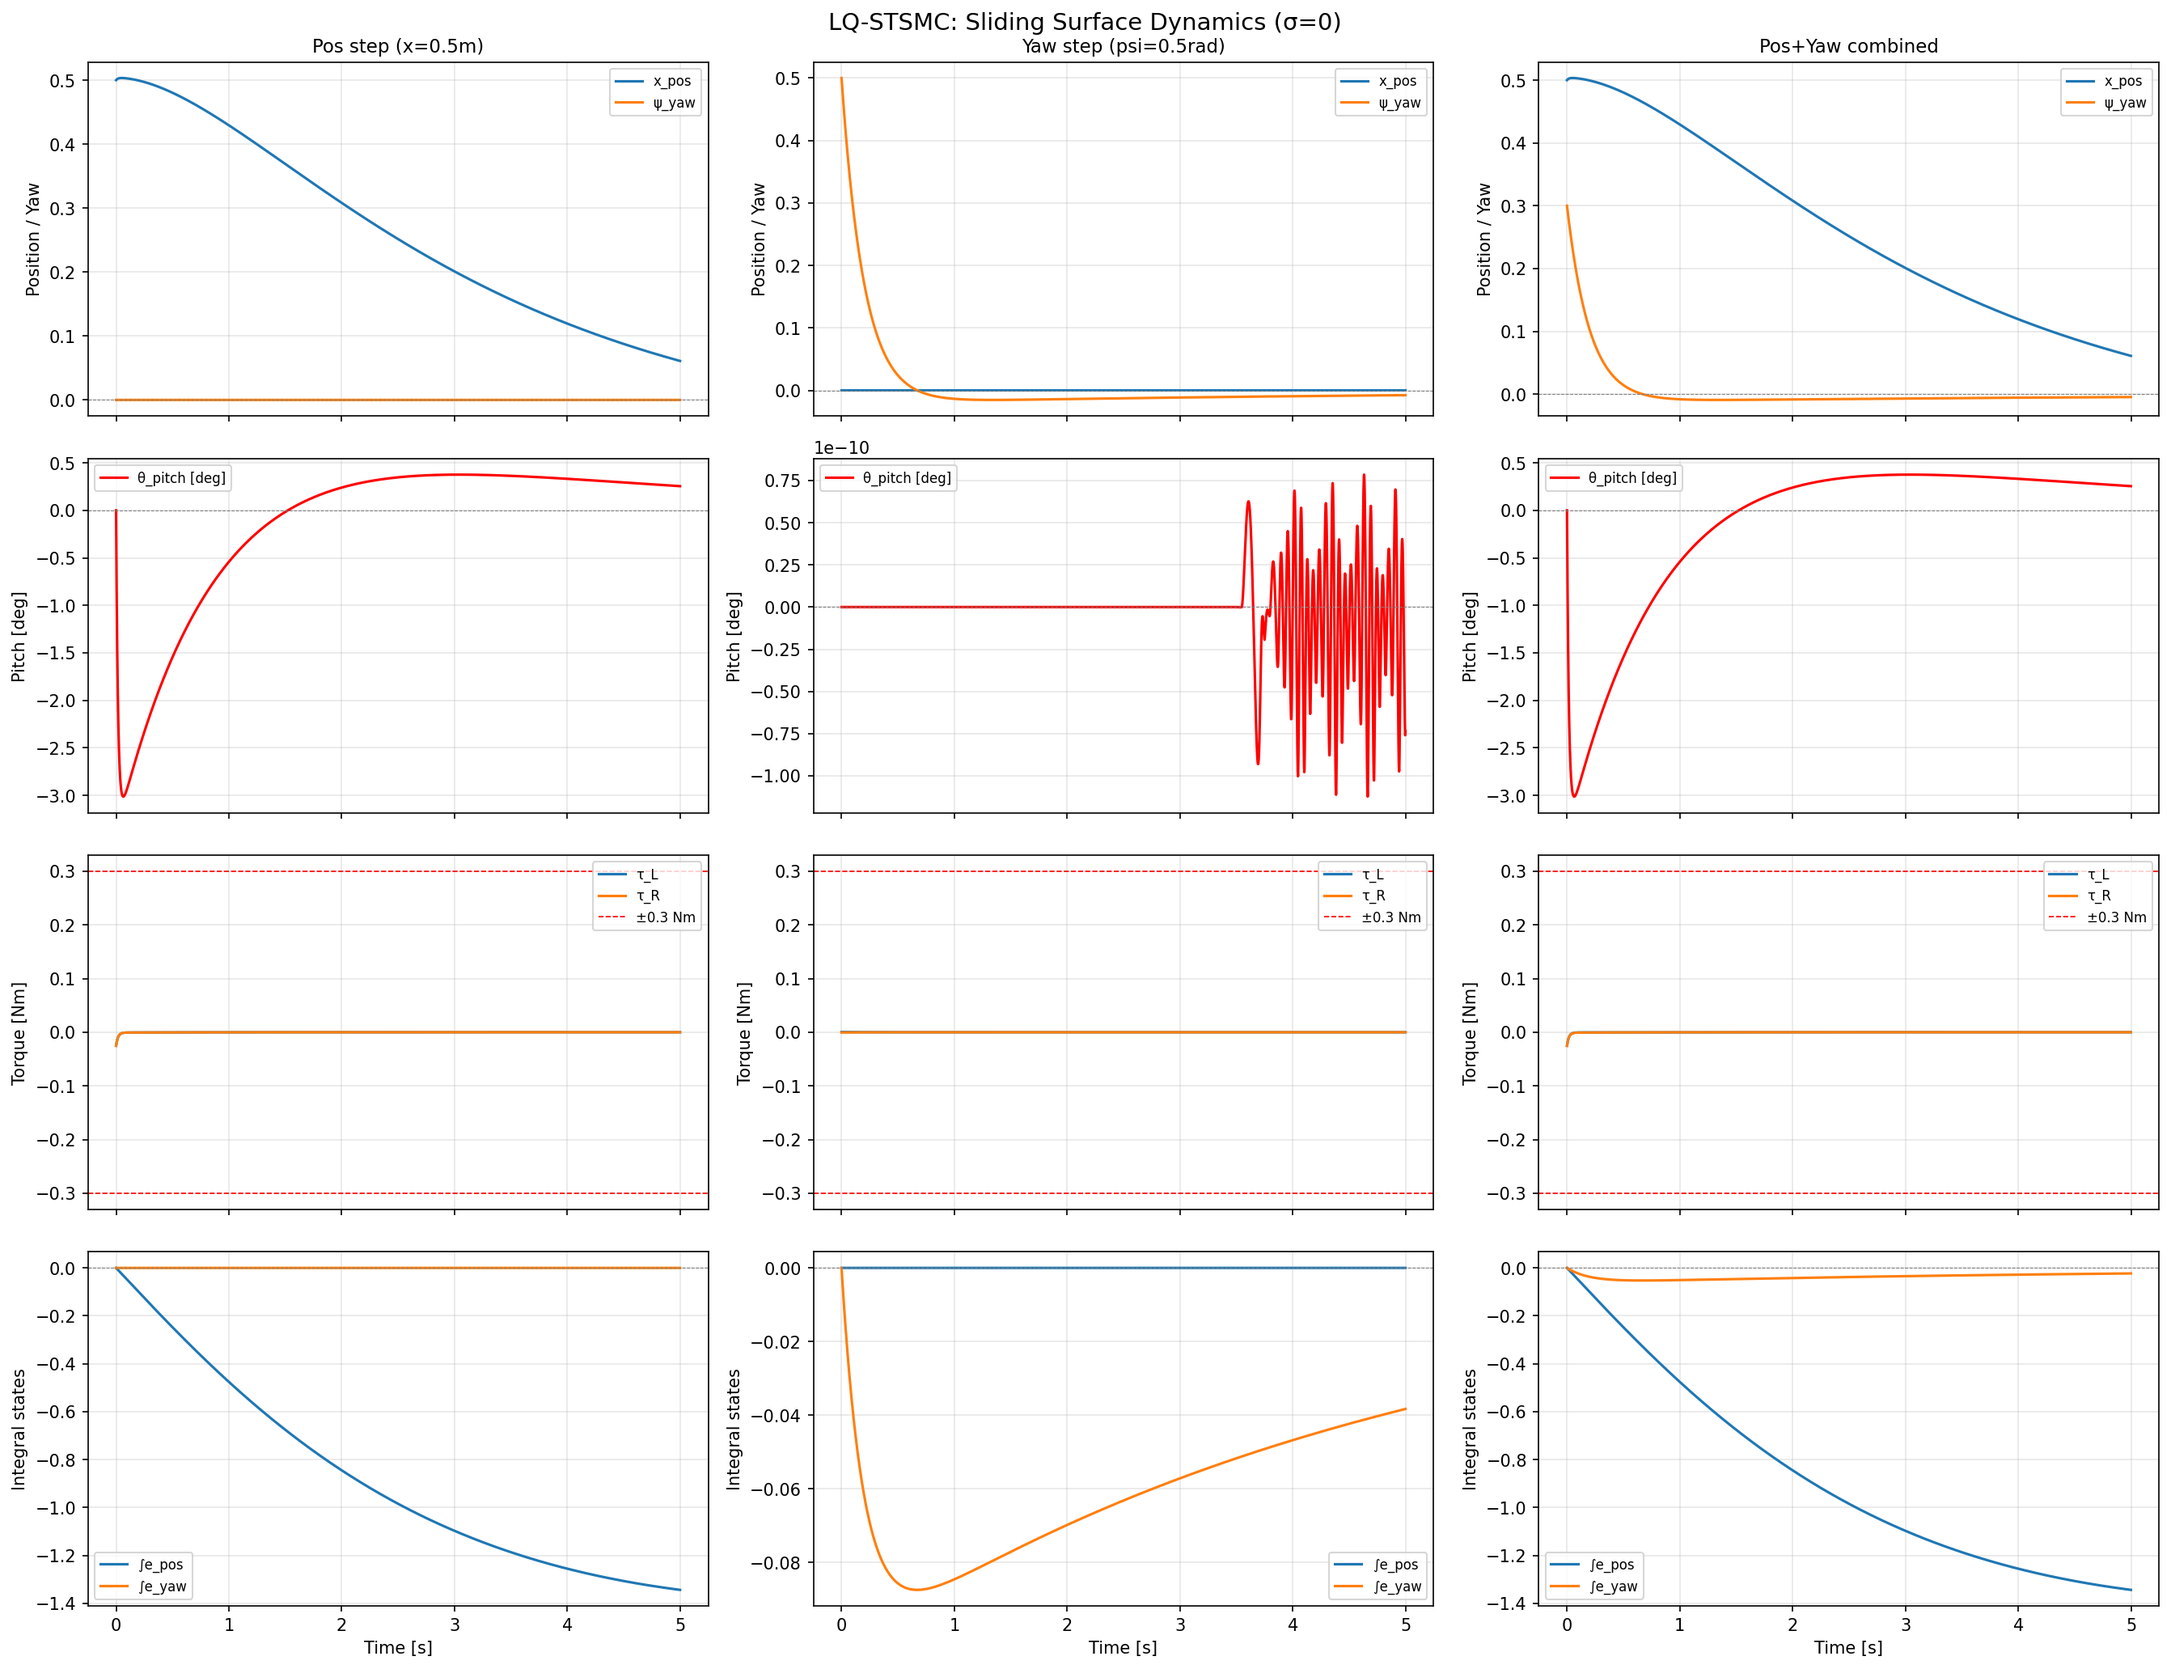
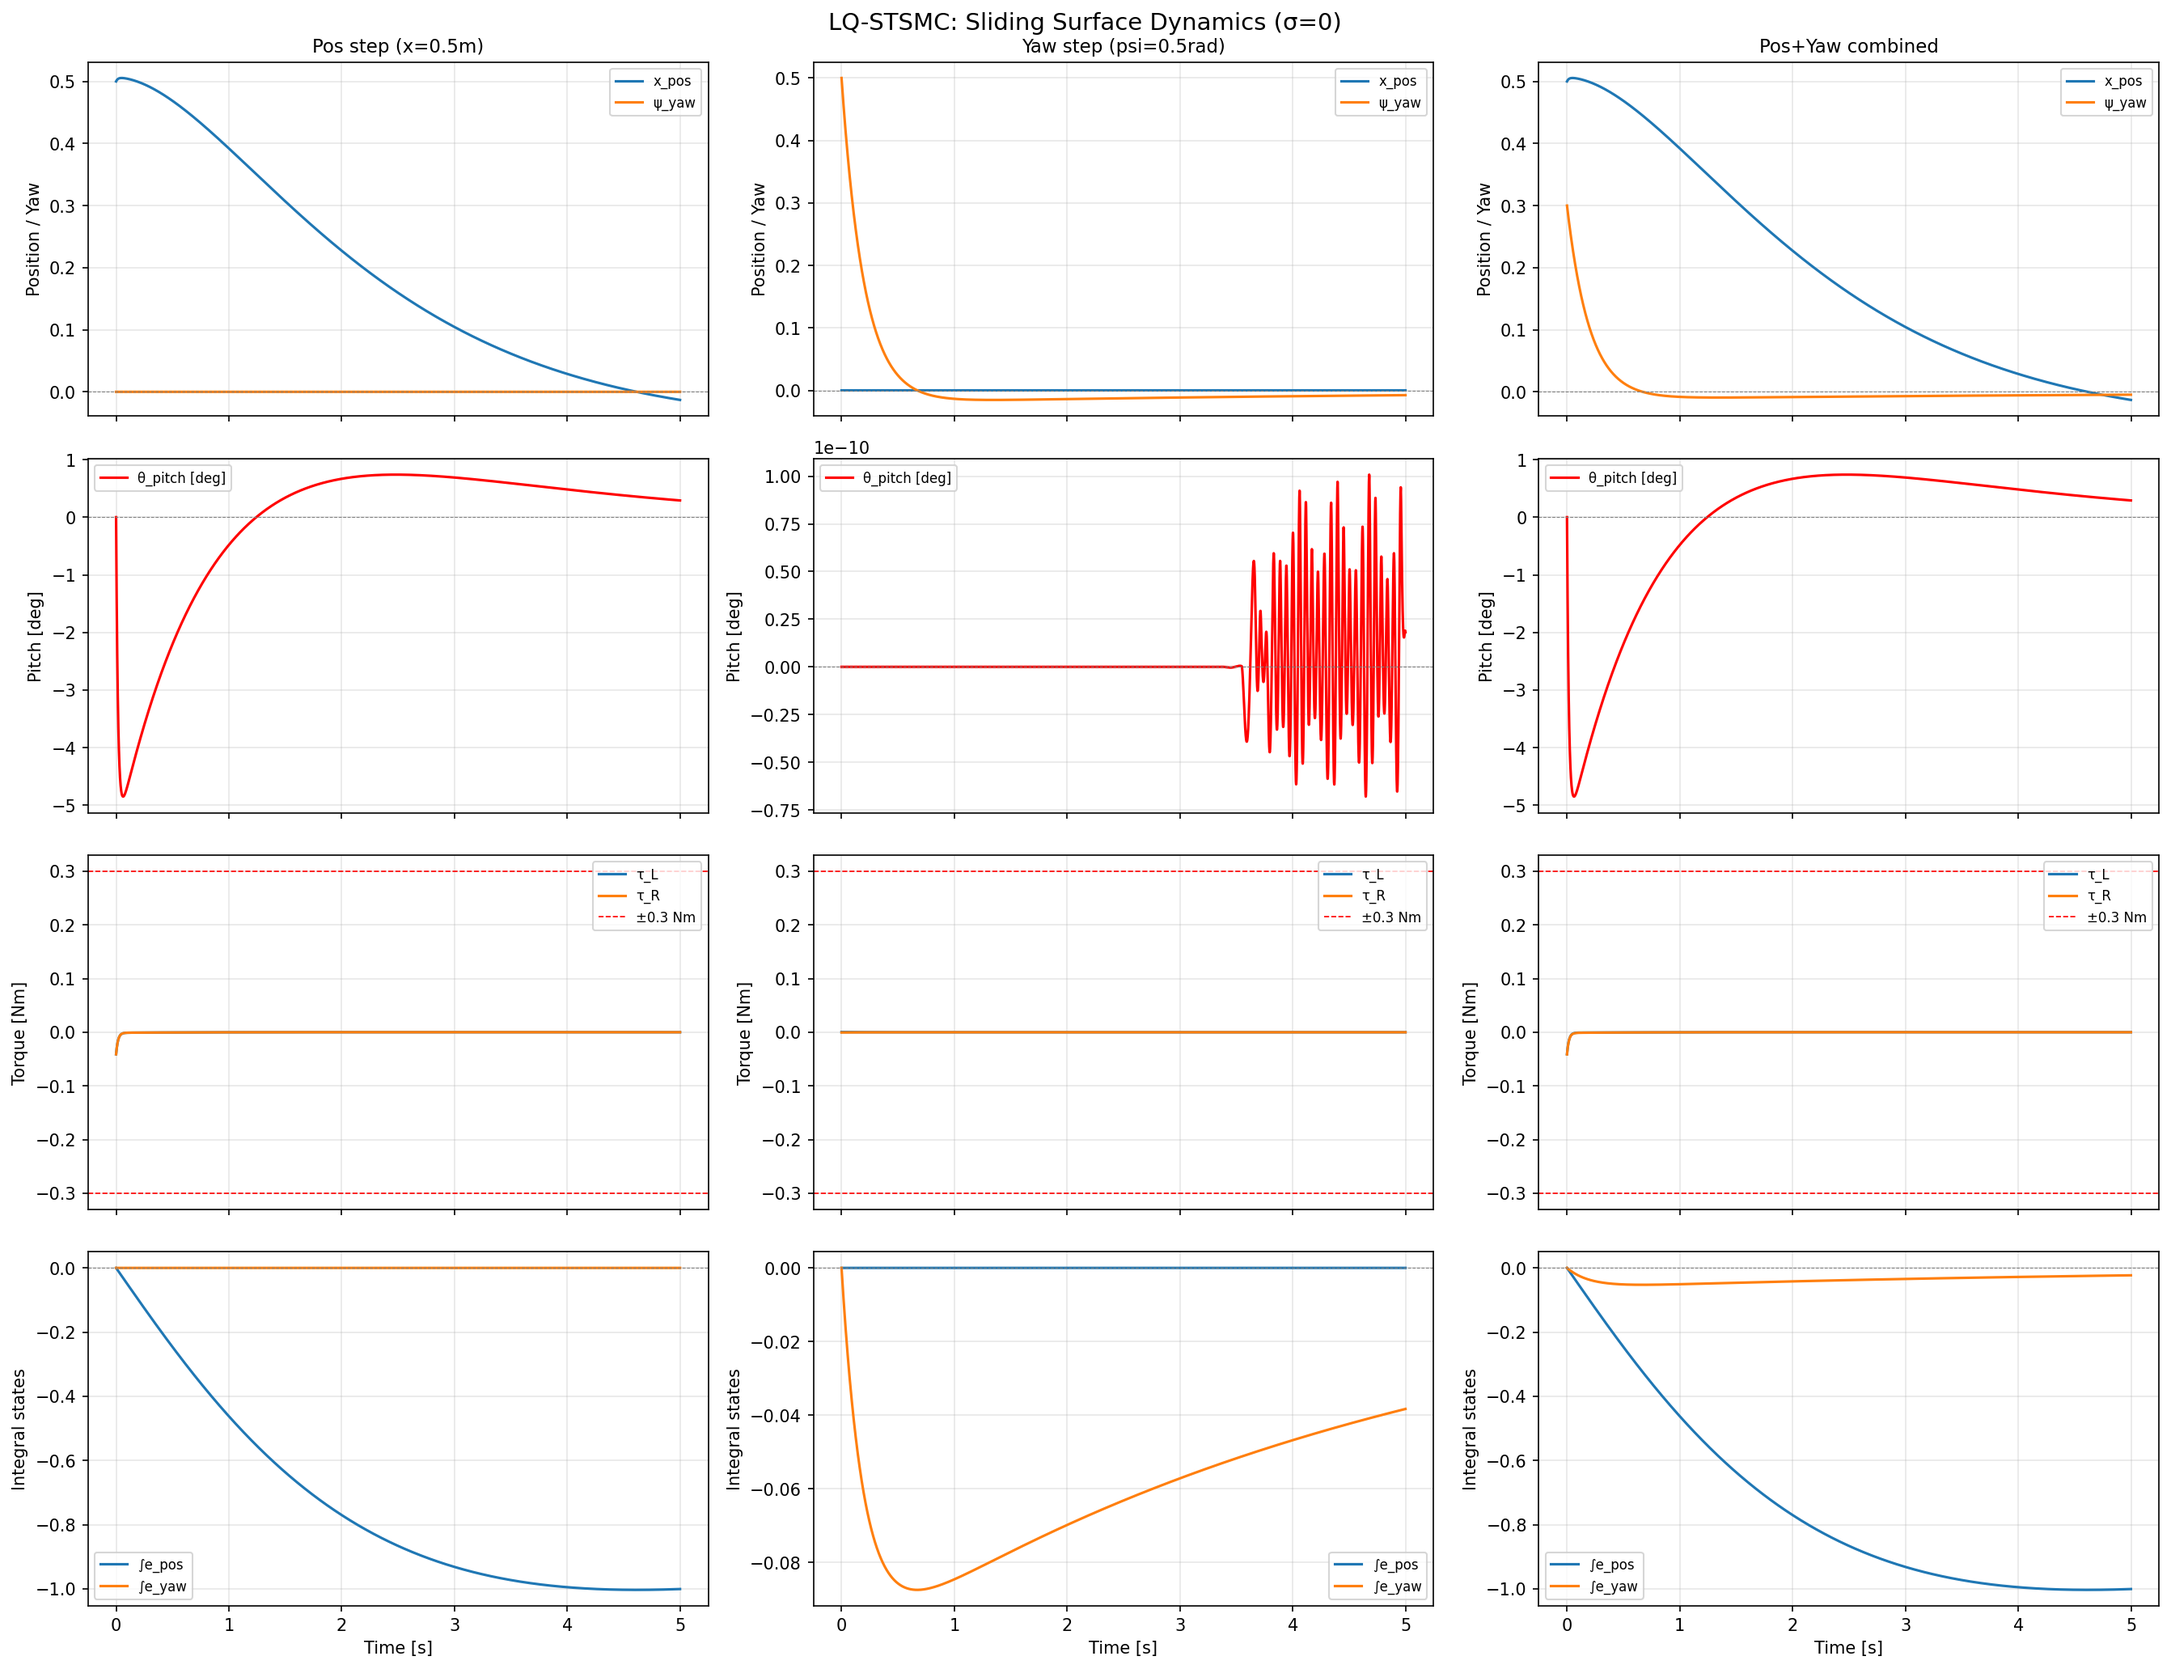
パラメータ調整と、SMCのU_eqの部分がFFだけでなくFBもあることに気づいたので追加しておいた

diff --git a/modules/control/src/fb/smc.rs b/modules/control/src/fb/smc.rs
@@ -1,57 +1,86 @@
-/// Super Twisting Sliding Mode Controller for second-order systems
+/// Super Twisting Sliding Mode Controller (PID-like Architecture)
+/// 
+/// このコントローラは「誤差フィードバック」に特化しています。
+/// 物理的な重力補償や目標加速度への先行入力(FF)は、外部で計算して足し合わせる運用を推奨します。
 use libm::{sqrtf, tanhf};
 
-const DELTA: f32 = 0.00001;
-const V_LEAK: f32 = 0.00001;
+const DELTA: f32 = 0.00001; // sqrtのゼロ除算防止
+const V_LEAK: f32 = 0.00001; // 積分項のドリフト防止（リーキー積分）
 
 pub struct SuperTwistingSMC {
-    pub dt: f32,        // [s] time step
-    pub lambda: f32,    // [出力/√(rad/s)] gain for sqrt term (algebraic)
-    pub alpha: f32,     // [出力/s] integral rate (multiplied by dt internally)
-    pub c: f32,         // [1/s] sliding surface parameter (algebraic)
-    pub epsilon: f32,   // [rad/s] boundary layer width
-    pub v_limit: f32,   // [出力] integral term limit
-    v: f32,             // [出力] integral state
-    prev_err: f32,      // [rad] previous error
+    pub dt: f32,         // [s] 制御周期
+    pub lambda: f32,     // [出力/√(rad/s)] STA比例ゲイン（P項に近い役割）
+    pub alpha: f32,      // [出力/s] STA積分ゲイン（I項に近い役割）
+    pub c: f32,          // [1/s] スライディング面の傾き (s = edot + c*e)
+    pub b_inv: f32,      // [出力/(rad/s^2)] 入力ゲインの逆数 (1/b) ★重要
+    pub epsilon: f32,    // [rad/s] 境界層幅 (tanhによる平滑化)
+    pub v_limit: f32,    // [出力] 積分項(v)のリミット
+    v: f32,              // [出力] 積分状態
+    prev_err: f32,       // [rad] 前回の誤差（内部状態保持用）
 }
+
 impl SuperTwistingSMC {
-    pub fn new(dt: f32, lambda: f32, alpha: f32, c: f32) -> Self {
+    /// 新しいインスタンスを作成します。
+    /// b_inv は「操作量を1入れた時に、加速度がどれくらい出るか」の逆数です。
+    pub fn new(dt: f32, lambda: f32, alpha: f32, c: f32, b_inv: f32) -> Self {
         Self {
             dt,
             lambda,
             alpha,
             c,
+            b_inv,
             epsilon: 0.1,
             v_limit: f32::INFINITY,
             v: 0.0,
             prev_err: 0.0,
         }
     }
+
+    /// スムージング用の境界幅を設定（ビルダーパターン）
     pub fn with_smoothing(mut self, epsilon: f32) -> Self {
         self.epsilon = epsilon;
         self
     }
+
+    /// 積分項のリミットを設定（ビルダーパターン）
     pub fn with_v_regulation(mut self, limit: f32) -> Self {
         self.v_limit = limit;
         self
     }
-    /// let err = target - value;
-    /// let err_dot = (err - self.prev_err) / self.dt;
+
+    /// 制御入力を計算します。
+    /// err: target - current (位置偏差)
+    /// err_dot: target_dot - current_dot (速度偏差)
     pub fn update(&mut self, err: f32, err_dot: f32) -> f32 {
         self.prev_err = err;
 
+        // 1. スライディング面の定義: s = ė + c*e
         let s = err_dot + self.c * err;
-        // let sat_s = (s / self.epsilon).clamp(-1.0, 1.0);
+
+        // 2. 切替関数の平滑化 (チャタリング防止)
         let sat_s = tanhf(s / self.epsilon);
-        
+
+        // 3. 等価制御入力(Ueq)のフィードバック成分 ★ここが追加ポイント
+        // ė = -ce を維持するために必要な「モデルベースのFB項」
+        // 理論式: u_eq_fb = (1/b) * (-c * ė)
+        let u_eq_fb = self.b_inv * (-self.c * err_dot);
+
+        // 4. STA非線形項の積分更新 (Uswの積分部)
+        // 外乱やモデリング誤差をこの項が吸収する (PIDのI項に近い)
         self.v = ((1.0 - V_LEAK * self.dt) * self.v - self.alpha * sat_s * self.dt)
             .clamp(-self.v_limit, self.v_limit);
-        
-        let output = -self.lambda * sqrtf(s.abs() + DELTA) * sat_s + self.v;
-        // defmt::info!("e={} s={} v={} u={}", err, s, self.v, output);
-        
+
+        // 5. STA非線形項の比例部 (Uswの比例部)
+        // 偏差がスライディング面から離れるほど強く引き戻す
+        let u_sw_p = -self.lambda * sqrtf(s.abs() + DELTA) * sat_s;
+
+        // 全フィードバック操作量の合計
+        let output = u_eq_fb + u_sw_p + self.v;
+
         output
     }
+
+    /// 内部状態をリセットします。
     pub fn reset(&mut self) {
         self.v = 0.0;
         self.prev_err = 0.0;

diff --git a/src/main.rs b/src/main.rs
@@ -514,33 +514,31 @@ fn main() -> ! {
         b_aug: MODEL_B_AUG,
         // --- ここを調整 ---
         q_diag: [
-            1.0 / (0.3 * 0.3),    // x_pos:    許容 0.3 m
-            1.0 / (0.05 * 0.05),   // θ_pitch:  許容 0.05 rad (~3°)
-            1.0 / (0.2 * 0.2),    // ψ_yaw:    許容 0.2 rad (~11°)
-            1.0 / (5.0 * 5.0),    // w:        許容 5.0
-            1.0 / (1.0 * 1.0),    // ∫e_pos:   許容 1.0 m·s
-            1.0 / (1.0 * 1.0),    // ∫e_yaw:   許容 1.0 rad·s
+            1.0 / (0.3 * 0.3),    // x_pos:    許容 m
+            1.0 / (0.05 * 0.05),  // θ_pitch:  許容 rad
+            1.0 / (0.2 * 0.2),    // ψ_yaw:    許容 rad
+            1.0 / (5.0 * 5.0),    // w:        許容 
+            1.0 / (5.0 * 5.0),    // ∫e_pos:   許容 m·s
+            1.0 / (1.0 * 1.0),    // ∫e_yaw:   許容 rad·s
         ],
         r_diag: [
-            1.0 / (0.5 * 0.5),    // v_pos:    許容 0.5 m/s
-            1.0 / (3.0 * 3.0),    // ω_yaw:    許容 3.0 rad/s
+            1.0 / (0.2 * 0.2),    // v_pos:    許容 m/s
+            1.0 / (1.0 * 1.0),    // ω_yaw:    許容 rad/s
         ],
         // --- ここまで ---
         ch: [
             // ch[0]: pitch/position channel
             lq_stsmc::StsmcChannelConfig {
-                lambda: 0.1,
+                lambda: 0.05,
                 alpha: 0.01,
                 epsilon: 0.05,
-                v_leak: 0.01,
                 v_limit: 50.0,
             },
             // ch[1]: yaw channel
             lq_stsmc::StsmcChannelConfig {
-                lambda: 0.5,
+                lambda: 0.1,
                 alpha: 0.05,
                 epsilon: 0.05,
-                v_leak: 0.01,
                 v_limit: 50.0,
             },
         ],

diff --git a/modules/control/src/fb/lq_stsmc.rs b/modules/control/src/fb/lq_stsmc.rs
@@ -17,7 +17,8 @@ const N_AUG: usize = 8;
 const N1: usize = 6; // z₁ 次元 (非駆動)
 const N2: usize = 2; // z₂ 次元 (駆動) = 入力数
 const H_DIM: usize = 12; // ハミルトン行列サイズ = 2 * N1
-const DELTA: f32 = 1e-6;
+const DELTA: f32 = 0.00001;
+const V_LEAK: f32 = 0.00001;
 
 // ============================================================
 // 行列演算ヘルパー
@@ -212,7 +213,6 @@ pub struct StsmcChannelConfig {
     pub lambda: f32,
     pub alpha: f32,
     pub epsilon: f32,
-    pub v_leak: f32,
     pub v_limit: f32,
 }
 
@@ -340,7 +340,7 @@ impl LqStsmc {
         for i in 0..N2 {
             let sat = tanhf(sigma[i] / self.ch[i].epsilon);
 
-            self.w[i] = ((1.0 - self.ch[i].v_leak * dt) * self.w[i]
+            self.w[i] = ((1.0 - V_LEAK * dt) * self.w[i]
                 - self.ch[i].alpha * sat * dt)
                 .clamp(-self.ch[i].v_limit, self.ch[i].v_limit);
 

diff --git a/sim.py b/sim.py
@@ -91,11 +91,11 @@ n2 = 2  # z₂ の次元
 
 # --- ここを調整 ---
 Q1 = np.diag([
-    1.0 / 0.5**2,    # x_pos:    許容 m
+    1.0 / 0.3**2,    # x_pos:    許容 m
     1.0 / 0.05**2,   # θ_pitch:  許容 rad
     1.0 / 0.2**2,    # ψ_yaw:    許容 rad
     1.0 / 5.0**2,    # w:        許容 (ω_pitch + α·v_pos)
-    1.0 / 10.0**2,    # ∫e_pos:   許容 m·s
+    1.0 / 5.0**2,    # ∫e_pos:   許容 m·s
     1.0 / 1.0**2,    # ∫e_yaw:   許容 rad·s
 ])
 
